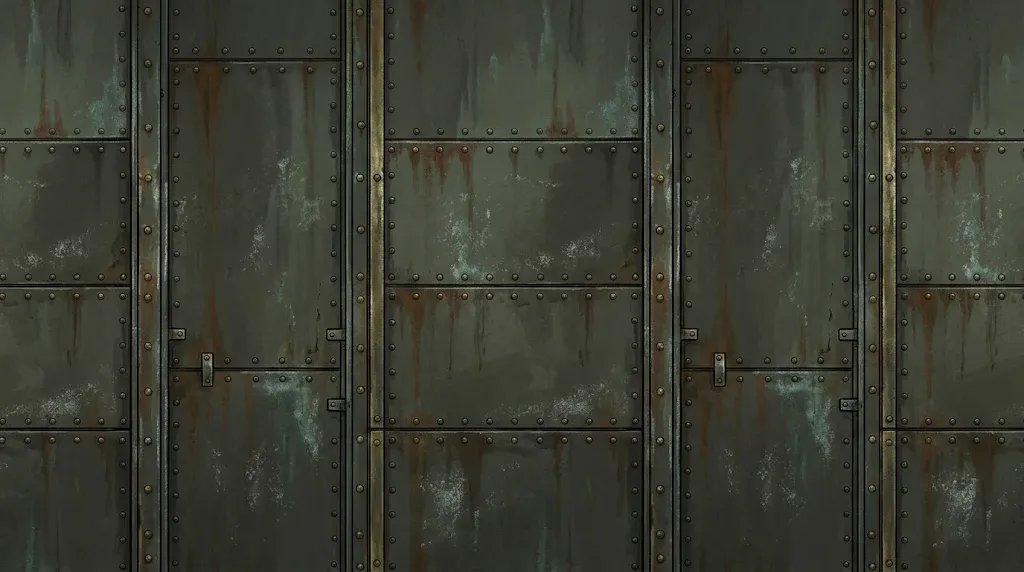
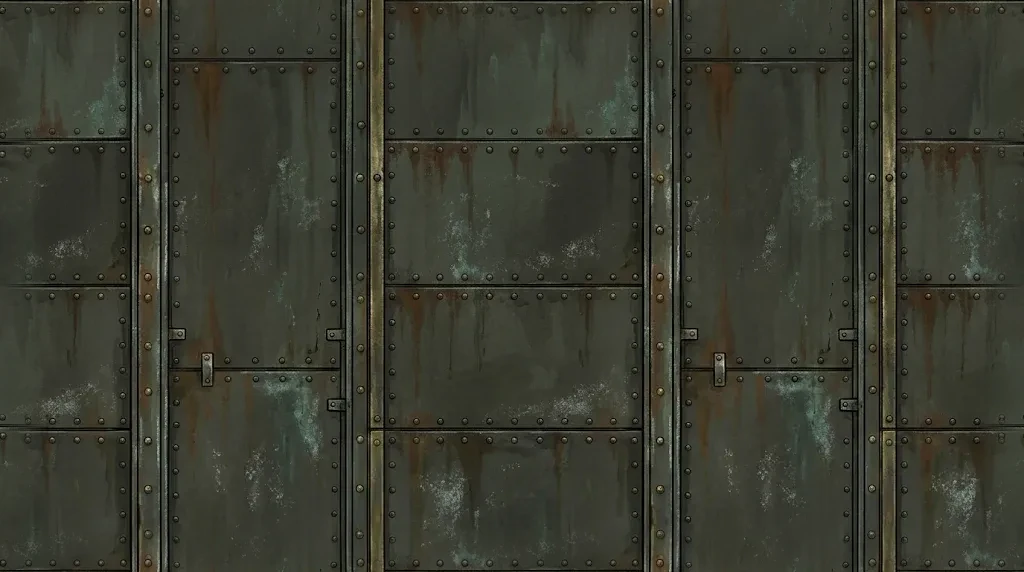
Interior tiles: one wall grid, a real deck rail, a continuous ladder
- Painted bulkhead replaces the drawn panel grid instead of fighting it (same
  random numbers, so vents and hatches stay put); the painting is evened out
  and cross-faded so it tiles without a band.
- Deck: cropped to its riveted rail and sized by its real proportions.
- Ladder: cropped between its brackets so steps stack into one ladder.
- Docs: PROGRESS, handoff, SOURCES.

Claude-Session: https://claude.ai/code/session_01ThT47SCGDfUCAzDJjvujKQ

diff --git a/src/interior/detail.ts b/src/interior/detail.ts
@@ -55,23 +55,18 @@ export function bolts(g: Graphics, x0: number, y0: number, x1: number, y1: numbe
  */
 export function wallPanels(g: Graphics, x0: number, y0: number, w: number, h: number, rand: Rand, texture?: Texture, pw = 120, ph = 80): void {
   g.rect(x0, y0, w, h).fill({ color: DC.wall });
-  if (texture) g.rect(x0, y0, w, h).fill(materialFill(texture, DC.wall, 0.66, 790, 510));
+  // The painted bulkhead has its own plates and seams: with it, the drawn panel grid is left out
+  // (two grids that didn't line up made every room look busy; art audit, Nov 28, 2026). The
+  // random numbers are still drawn in the same order, so the vents and hatches stay put.
+  if (texture) g.rect(x0, y0, w, h).fill(materialFill(texture, DC.wall, 0.86, 790, 510));
   for (let y = y0; y < y0 + h - 4; y += ph)
     for (let x = x0; x < x0 + w - 4; x += pw) {
       const cw = Math.min(pw, x0 + w - x);
       const chh = Math.min(ph, y0 + h - y);
       const tone = rand();
-      g.rect(x + 2, y + 2, cw - 4, chh - 4).fill({ color: tone < 0.45 ? DC.wallLight : tone < 0.85 ? DC.wall : 0x343b40, alpha: texture ? 0.45 : 0.75 });
-      // Bevel: light from above.
-      g.rect(x + 2, y + 2, cw - 4, 1.4).fill({ color: DC.bevelHi, alpha: 0.55 });
-      g.rect(x + 2, y + 2, 1.4, chh - 4).fill({ color: DC.bevelHi, alpha: 0.3 });
-      g.rect(x + 2, y + chh - 3.5, cw - 4, 1.6).fill({ color: DC.bevelLo, alpha: 0.7 });
-      g.rect(x + cw - 3.5, y + 2, 1.5, chh - 4).fill({ color: DC.bevelLo, alpha: 0.5 });
-      // Seams.
-      g.rect(x, y, cw, 2).fill({ color: DC.seam, alpha: 0.8 });
-      g.rect(x, y, 2, chh).fill({ color: DC.seam, alpha: 0.6 });
+      if (!texture) panelFace(g, x, y, cw, chh, tone);
       if (cw < 30 || chh < 30) continue;
-      for (const [rx, ry] of [[6, 6], [cw - 6, 6], [6, chh - 6], [cw - 6, chh - 6]]) rivet(g, x + rx, y + ry, 1.2);
+      if (!texture) for (const [rx, ry] of [[6, 6], [cw - 6, 6], [6, chh - 6], [cw - 6, chh - 6]]) rivet(g, x + rx, y + ry, 1.2);
       const r = rand();
       const mx = x + cw / 2;
       const my = y + chh / 2;
@@ -105,6 +100,19 @@ export function wallPanels(g: Graphics, x0: number, y0: number, w: number, h: nu
         for (let k = 0; k < 3; k++) g.rect(mx - 12 + k * 9, my - 2, 6, 4).fill({ color: DC.seam, alpha: 0.6 });
       }
     }
+}
+
+/** One plain drawn wall panel: a tone, a bevel lit from above, and its seams (no painted wall). */
+function panelFace(g: Graphics, x: number, y: number, cw: number, chh: number, tone: number): void {
+  g.rect(x + 2, y + 2, cw - 4, chh - 4).fill({ color: tone < 0.45 ? DC.wallLight : tone < 0.85 ? DC.wall : 0x343b40, alpha: 0.75 });
+  // Bevel: light from above.
+  g.rect(x + 2, y + 2, cw - 4, 1.4).fill({ color: DC.bevelHi, alpha: 0.55 });
+  g.rect(x + 2, y + 2, 1.4, chh - 4).fill({ color: DC.bevelHi, alpha: 0.3 });
+  g.rect(x + 2, y + chh - 3.5, cw - 4, 1.6).fill({ color: DC.bevelLo, alpha: 0.7 });
+  g.rect(x + cw - 3.5, y + 2, 1.5, chh - 4).fill({ color: DC.bevelLo, alpha: 0.5 });
+  // Seams.
+  g.rect(x, y, cw, 2).fill({ color: DC.seam, alpha: 0.8 });
+  g.rect(x, y, 2, chh).fill({ color: DC.seam, alpha: 0.6 });
 }
 
 /** Darker air and grime gathering along a floor, and a few drips. */

diff --git a/src/interior/interior.ts b/src/interior/interior.ts
@@ -215,6 +215,12 @@ export interface InteriorInput {
   sealVisor?: boolean;
 }
 
+/** How wide one repeat of the painted deck rail is at a given height, so it keeps its real
+ * proportions (it used to be squeezed to 96 wide, flattening it; art audit, Nov 28, 2026). */
+function deckRepeat(tex: Texture, height: number): number {
+  return (height * tex.width) / Math.max(1, tex.height);
+}
+
 export class Interior {
   /** Phase 14: the walker's head on screen in CSS px (updated each frame). */
   heroPx = { x: 0, y: 0 };
@@ -666,7 +672,7 @@ export class Interior {
           else if (steel) g.rect(x, y, T + 0.5, T + 0.5).fill(materialFill(steel, metal, 0.67, 860, 520));
           if (!this.solidTileStatic(tx, ty - 1)) {
             if (deckGrate) {
-              g.rect(x, y, T + 0.5, 13).fill(materialFill(deckGrate, 0x7c6e60, 1, 96, 15, 0, y));
+              g.rect(x, y, T + 0.5, 13).fill(materialFill(deckGrate, 0x7c6e60, 1, deckRepeat(deckGrate, 15), 15, 0, y));
               g.rect(x, y + 12, T + 0.5, 2).fill({ color: 0x161a1c, alpha: 0.85 });
             } else {
               g.rect(x, y, T + 0.5, 6).fill({ color: survey ? 0x8d8b77 : listening ? 0x8c8270 : 0x6e7476 });
@@ -945,7 +951,7 @@ export class Interior {
           const deckGrate = getPropArt().interior.deck_grate;
           if (open(0, -1)) {
             if (deckGrate) {
-              g.rect(x, y, T + 0.5, 16).fill(materialFill(deckGrate, 0x6a787e, 1, 96, 18, 0, y));
+              g.rect(x, y, T + 0.5, 16).fill(materialFill(deckGrate, 0x6a787e, 1, deckRepeat(deckGrate, 18), 18, 0, y));
               g.rect(x, y, T + 0.5, 1.5).fill({ color: 0xd8d2b8, alpha: 0.45 });
               g.rect(x, y + 15, T + 0.5, 1.5).fill({ color: 0x15191c, alpha: 0.85 });
             } else {
@@ -976,7 +982,7 @@ export class Interior {
         } else if (c === '=') {
           const deckGrate = getPropArt().interior.deck_grate;
           if (deckGrate) {
-            g.rect(x, y, T + 0.5, 10).fill(materialFill(deckGrate, 0x6a787e, 1, 96, 12, 0, y));
+            g.rect(x, y, T + 0.5, 10).fill(materialFill(deckGrate, 0x6a787e, 1, deckRepeat(deckGrate, 12), 12, 0, y));
             g.rect(x, y + 9, T + 0.5, 2).fill({ color: 0x15191c, alpha: 0.85 });
           } else {
             g.rect(x, y, T + 0.5, 7).fill({ color: 0x7c878e });

diff --git a/docs/AI_DEVELOPMENT_HANDOFF.md b/docs/AI_DEVELOPMENT_HANDOFF.md
@@ -41,7 +41,7 @@ The repository default (live) branch is `claude/underwater-game-m0-0qqajg`. Phas
 | Base rendering and interior interactions | [basegfx.ts](../src/world/basegfx.ts), [baselevel.ts](../src/interior/baselevel.ts), [housingHull.ts](../src/interior/housingHull.ts), [housingSea.ts](../src/interior/housingSea.ts), [habitatWater.ts](../src/world/habitatWater.ts), [tankArt.ts](../src/art/tankArt.ts). Constructed modules determine the hull cutaway. The interior tile map remains authoritative for collision, traversal and spacing. Tank backdrops load from `src/art/tanks/{bare,coral,kelp,grass,bladder,lumen}.{webp,png}` with biome-themed procedural fallbacks in `HabitatWater.setTheme()`. |
 | Art and compositor | [worldArt.ts](../src/art/worldArt.ts), [zonebackdrop.ts](../src/scene/zonebackdrop.ts), [lighting.ts](../src/fx/lighting.ts), [post.ts](../src/fx/post.ts), [presets.ts](../src/presets.ts). PixiJS draws world, emissive and glow layers into the lighting/post pipeline. Dry interiors use their own scene target and can sample the registered ocean. Ultra targets native-resolution presentation; resolution can still adapt with settings. |
 | The Petrel and the Petrel works (Beyond Earth, Nov 27, 2026) | Rules (Node-tested in `scripts/test-petrel.mjs`, runnable on its own): [petrel.ts](../src/game/petrel.ts) (`PETREL_STAGES`, recipes, creature keys, `tickPetrel`, rewards `petrelScald` / `petrelAir` / `petrelYield`). The piece is `works` (PW-1) in [base.ts](../src/game/base.ts); its blueprint comes with first contact. Surface platform and ship: [petrelView.ts](../src/world/petrelView.ts) (code-drawn; painted `petrel_platform`, `petrel_1..5` in `src/art/landmarks/` replace it). Panel: [petrelPanel.ts](../src/ui/petrelPanel.ts). Room: `case 'works'` in [baselevel.ts](../src/interior/baselevel.ts). Gemini prompts: [docs/art/prompts/petrel.md](art/prompts/petrel.md). |
-| Europa (Beyond Earth, Nov 27, 2026) | Rules (Node-tested in `scripts/test-europa.mjs`): [game/europa.ts](../src/game/europa.ts) (its own materials and store, spots, glyphs, hab pieces, fuel home, creatures, Linnea). Shape: [world/europaTerrain.ts](../src/world/europaTerrain.ts) (`ceilY`, `floorY`, `europaSolid`, its own coordinates 0..6400). Drawing: [scene/europaScene.ts](../src/scene/europaScene.ts) (its own lamp light, since the Earth lighting shader is hidden there). Code-drawn first; Colin's paintings are swapped in by `applyArt` once [art/europaArt.ts](../src/art/europaArt.ts) has loaded them (`loadEuropaArt`, called from `startVoyage` and `enterEuropa`, so only Europa players download them). The zone layers are screen-wide sprites in `zoneBack`/`zoneFront`, crossfaded and slid in `updateZones` (`ZONE_SPAN`); every painted piece keeps its code-drawn fallback. **New Europa or voyage images:** run `python3 -I scripts/prep-europa-art.py <folder with src/art/...>`. It keys, crops and re-encodes them into `src/art/` by role, taken from the file name. Then log them in `docs/art/SOURCES.md`. **New Earth scenery paintings** (far plates in `src/art/painterly-world/`, the foreground kelp in `src/art/sunlit-shallows/`), made on white with misty edges, go through `python3 -I scripts/prep-earth-art.py <folder>` the same way; plates are placed in `landscapes` in `src/scene/zonebackdrop.ts`. **Props on white** (base, rooms, Kestrel, landmarks, pickups and so on) are cut out at load by `keyOutWhiteAndCrop` (`src/art/creatureArt.ts`). If a prop has pale paint that comes out with holes, add it to `KEEP_PALE` in `src/art/propArt.ts`. Prefer WebP to JPG for new art (art audit, Nov 28, 2026). Voyages: [ui/voyageCutscene.ts](../src/ui/voyageCutscene.ts). Console: [ui/europaPanel.ts](../src/ui/europaPanel.ts). The floe ray: rules in europa.ts (`offerFrond`, `startGear`/`tickRayGear`, `canCrossPassage`, `breakIce`), drawing in `RayView` (europaScene.ts), riding in main.ts (`rayRt`, `mountRay`, `dismountRay`, `rayRam`, the riding block in `europaFrame`). The shape now runs to x 14000: biome 1, the passage (`inPassage`), the floe field (`OPEN` ceilings, `FLOES`, `openToSky`); `setEuropaBroken` tells the shape what the crest has broken. Biome 3 (the warm deep): `ABYSS`, `HEARTH`, `DEAD_VENTS`, `inBlackWater`, `inWarmDeep` in europaTerrain.ts; the kin's rules (`meetKin`, `makeCore`, `ventNeeds`, `rekindle`, `kinRestored`, `KIN_GATES`) in europa.ts; the song in [ui/kinSong.ts](../src/ui/kinSong.ts) (it reuses the `#contact` overlay styles). In main.ts: `enterEuropa`, `exitEuropa`, `europaFrame` (run instead of the ocean frame, like `interiorFrame`), `startVoyage`. While there, `setSolidOverride(europaSolid)` makes every `isSolid()` call read Europa; it is cleared on the way home. |
+| Europa (Beyond Earth, Nov 27, 2026) | Rules (Node-tested in `scripts/test-europa.mjs`): [game/europa.ts](../src/game/europa.ts) (its own materials and store, spots, glyphs, hab pieces, fuel home, creatures, Linnea). Shape: [world/europaTerrain.ts](../src/world/europaTerrain.ts) (`ceilY`, `floorY`, `europaSolid`, its own coordinates 0..6400). Drawing: [scene/europaScene.ts](../src/scene/europaScene.ts) (its own lamp light, since the Earth lighting shader is hidden there). Code-drawn first; Colin's paintings are swapped in by `applyArt` once [art/europaArt.ts](../src/art/europaArt.ts) has loaded them (`loadEuropaArt`, called from `startVoyage` and `enterEuropa`, so only Europa players download them). The zone layers are screen-wide sprites in `zoneBack`/`zoneFront`, crossfaded and slid in `updateZones` (`ZONE_SPAN`); every painted piece keeps its code-drawn fallback. **New Europa or voyage images:** run `python3 -I scripts/prep-europa-art.py <folder with src/art/...>`. It keys, crops and re-encodes them into `src/art/` by role, taken from the file name. Then log them in `docs/art/SOURCES.md`. **New Earth scenery paintings** (far plates in `src/art/painterly-world/`, the foreground kelp in `src/art/sunlit-shallows/`), made on white with misty edges, go through `python3 -I scripts/prep-earth-art.py <folder>` the same way; plates are placed in `landscapes` in `src/scene/zonebackdrop.ts`. **Props on white** (base, rooms, Kestrel, landmarks, pickups and so on) are cut out at load by `keyOutWhiteAndCrop` (`src/art/creatureArt.ts`). If a prop has pale paint that comes out with holes, add it to `KEEP_PALE` in `src/art/propArt.ts`. Prefer WebP to JPG for new art (art audit, Nov 28, 2026). **Interior tiles:** `wall_bulkhead` replaces the drawn panel grid when loaded (`wallPanels` in `src/interior/detail.ts`). `deck_grate` is a thin rail strip sized by its own proportions (`deckRepeat`). `ladder_rung` is one seamless step, with two rungs at a quarter and three quarters of its height. Voyages: [ui/voyageCutscene.ts](../src/ui/voyageCutscene.ts). Console: [ui/europaPanel.ts](../src/ui/europaPanel.ts). The floe ray: rules in europa.ts (`offerFrond`, `startGear`/`tickRayGear`, `canCrossPassage`, `breakIce`), drawing in `RayView` (europaScene.ts), riding in main.ts (`rayRt`, `mountRay`, `dismountRay`, `rayRam`, the riding block in `europaFrame`). The shape now runs to x 14000: biome 1, the passage (`inPassage`), the floe field (`OPEN` ceilings, `FLOES`, `openToSky`); `setEuropaBroken` tells the shape what the crest has broken. Biome 3 (the warm deep): `ABYSS`, `HEARTH`, `DEAD_VENTS`, `inBlackWater`, `inWarmDeep` in europaTerrain.ts; the kin's rules (`meetKin`, `makeCore`, `ventNeeds`, `rekindle`, `kinRestored`, `KIN_GATES`) in europa.ts; the song in [ui/kinSong.ts](../src/ui/kinSong.ts) (it reuses the `#contact` overlay styles). In main.ts: `enterEuropa`, `exitEuropa`, `europaFrame` (run instead of the ocean frame, like `interiorFrame`), `startVoyage`. While there, `setSolidOverride(europaSolid)` makes every `isSolid()` call read Europa; it is cleared on the way home. |
 | Pacing | [`scripts/pacing-model.mjs`](../scripts/pacing-model.mjs) simulates an efficient fresh-save player with the game's real costs, timers and pickup spots (`--critical` for the route only); findings in [pacing-audit.md](pacing-audit.md). Rerun it after changing costs, research requirements or rates. |
 | Living Water | [waterMotion.ts](../src/scene/waterMotion.ts), [water.ts](../src/scene/water.ts), [waterWake.ts](../src/fx/waterWake.ts), [surface.ts](../src/fx/surface.ts). Motion is shared by visual consumers. Keep wakes and impulses bounded and separate from swimming physics. |
 

diff --git a/PROGRESS.md b/PROGRESS.md
@@ -4,6 +4,19 @@ The live branch includes the Fulmar foothold, Codex Phases 1–11D the Phase 12 
 
 Play link: https://colinhill88-hub.github.io/fathomlight/ (live; first successful deploy 2026-11-14)
 
+### Interior tiles: wall, deck and ladder (Colin, Nov 28, 2026)
+
+Colin asked about the three tiles that repeat through every room.
+- **Wall (`wall_bulkhead`):**
+  - The painting was laid at 66% under a drawn panel grid (120 × 80 panels, each with seams and rivets). The painting has its own plates at a different spacing, so every room showed two grids that didn't line up: busy and flat at once.
+  - With the painting loaded, the drawn grid is now left out and the painting shows at 86%. The drawn vents, hatches and gauges stay for variety. The random numbers are drawn in the same order, so they stay where they were (`src/interior/detail.ts`).
+  - The painting was evened out from top to bottom and side to side, and its edges cross-faded, so copies meet without the light band they had.
+- **Deck (`deck_grate`):** the painting was squeezed into thin floor strips 96 wide, flattening it about 2.7 times into noise. It is now cropped to the riveted rail along its top, and the strips take their width from its real proportions (`deckRepeat` in `src/interior/interior.ts`). Floors now read as a solid riveted edge.
+- **Ladder (`ladder_rung`):** each 40-unit step stretched the whole painting, brackets included, so ladders read as a stack of short separate ladders. It is now cropped between the brackets, keeping its two rungs evenly spaced across the join, so the steps make one continuous ladder.
+- **Checked:**
+  - Typecheck, build, and the Europa, Petrel, creature-care and rarity checks pass. The progression check still stops at "No boots row" (already failing).
+  - Before-and-after in `vite preview`: the storage and press rooms, the lab, and the Corvina.
+
 ### Art audit: last week's Gemini art (Colin, Nov 28, 2026)
 
 Audited the 105 images Colin added Nov 23–25: base outsides and rooms, Kestrel's parts, landmarks, pickups, sea-floor life, wrecks, the intro, and the gauge. Each was run through the game's own cut-out code in a browser and looked at on the dark game background, alone and in the game.

diff --git a/docs/art/SOURCES.md b/docs/art/SOURCES.md
@@ -194,3 +194,6 @@ Made by Colin from [`prompts/earth-polish.md`](prompts/earth-polish.md). Each pa
 
 
 **Nov 28, 2026 (art audit):** the 45 JPGs Colin added Nov 23–25 (in `base/`, `interior/`, `kestrel/`, `landmarks/`, `wrecks/`, `intro/` and `ui/`) were re-encoded as WebP (quality 88, same size). Each keeps its name, with `.webp` in place of `.jpg`. No other change to the images.
+
+
+**Nov 28, 2026 (interior tiles):** `interior/ladder_rung.webp` was cropped to the stretch between its brackets (rows 196–820 of 1024), so it repeats as one ladder. `interior/deck_grate.webp` was cropped to its top riveted rail (rows 25–76). `interior/wall_bulkhead.webp` had its light evened out top to bottom and side to side, and its edges cross-faded so it tiles. The originals are in the git history.
